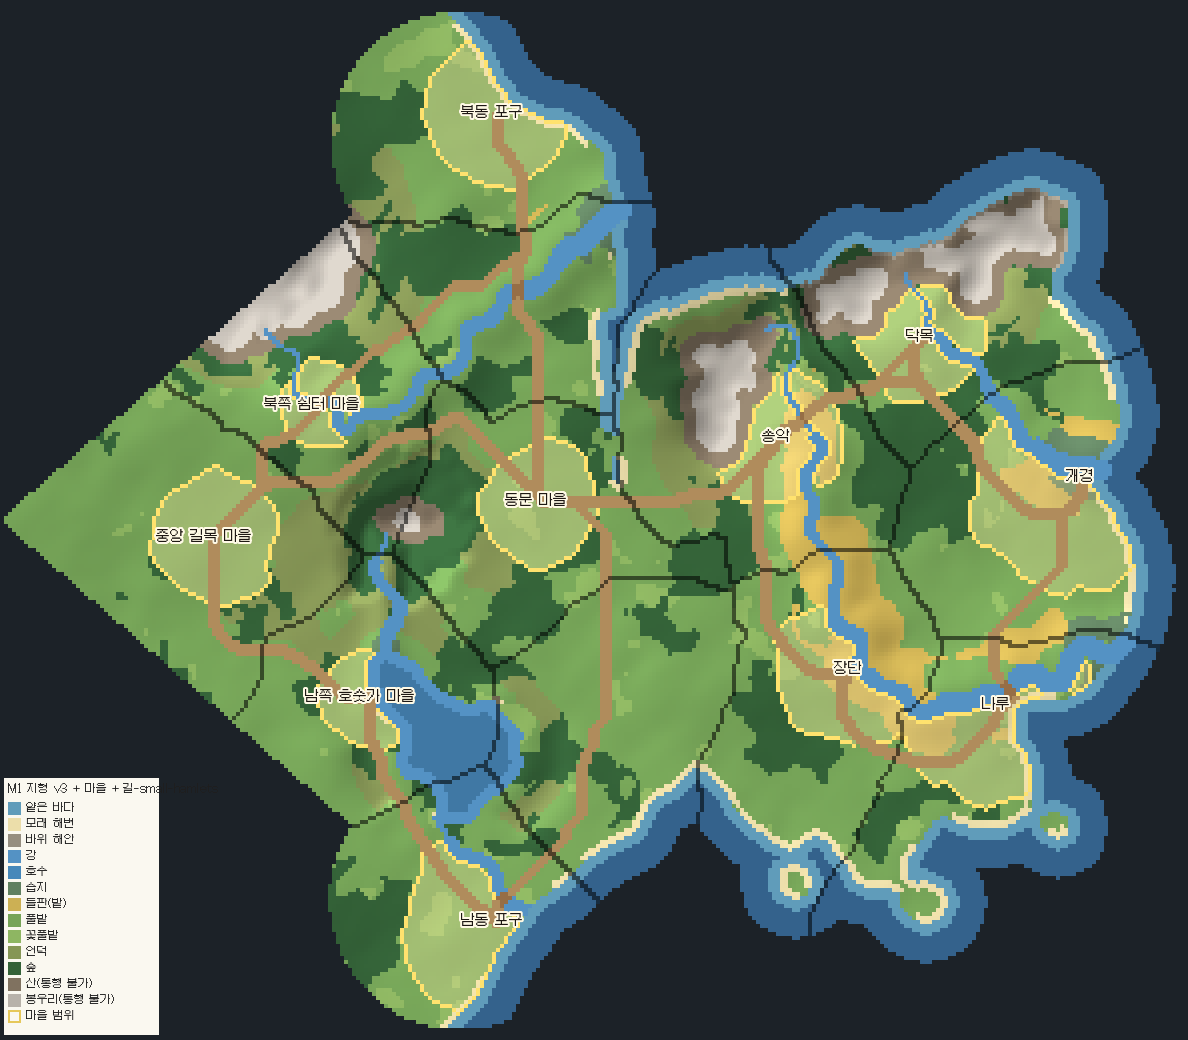
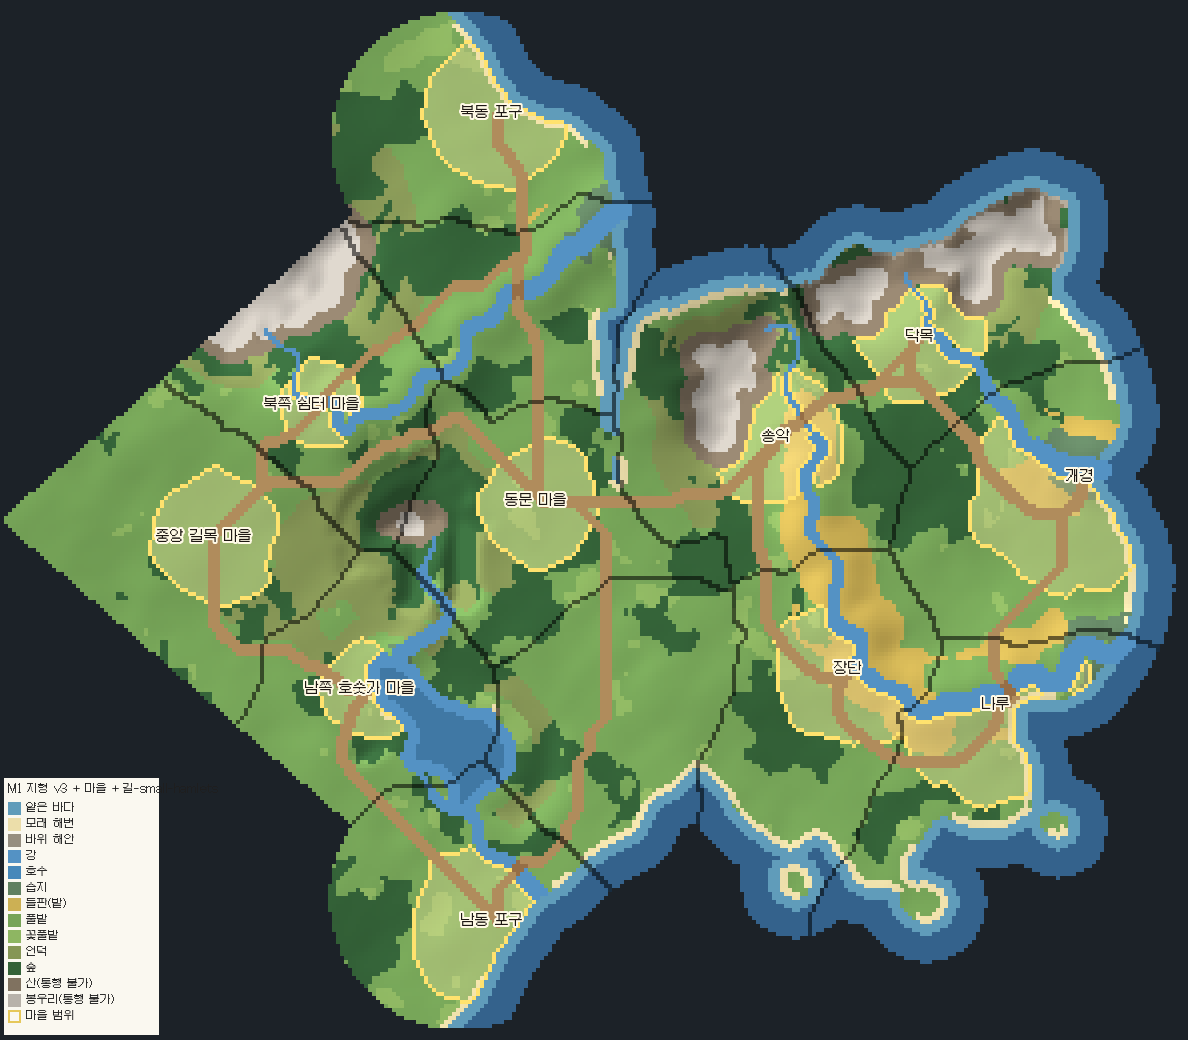
M1: 호수 950→760칸, 수원 방향 고정, 길이 물가에서 더 떨어지게
Claude-Session: https://claude.ai/code/session_01LeGdCGGAkPbpRa1d2kF6Yd

diff --git a/Tools/WorldLayout/terrain_v3.py b/Tools/WorldLayout/terrain_v3.py
@@ -31,7 +31,7 @@ COLORS={DEEP:(52,98,140),SHALLOW:(96,156,186),SAND:(236,222,170),ROCKCOAST:(150,
         FOREST:(52,98,56),MOUNTAIN:(128,114,96),PEAK:(184,178,170),VILLAGE:(210,190,140),VOID:(28,34,40),LAKE:(70,136,186)}
 BLOCKED={DEEP,SHALLOW,RIVER,MOUNTAIN,PEAK,ROCKCOAST,LAKE}
 # 호수(세계 좌표 중심, 대략 면적): 남쪽 쉼터 마을 북쪽(2026-10-27 은샘 제안)
-LAKES=[dict(label='남쪽 큰 호수',area=950,box=(95,22,150,72))]   # 이 범위(x0,y0,x1,y1) 안에서 가장 낮은 내륙 분지를 고른다
+LAKES=[dict(label='남쪽 큰 호수',area=760,box=(95,22,150,72),sourceDir=-99)]   # sourceDir: 호수에서 본 상류(수원 산) 방향, 도(화면 기준, -90=북)   # 이 범위(x0,y0,x1,y1) 안에서 가장 낮은 내륙 분지를 고른다
 # 마을 목표 면적(칸): 수도는 크게, 중앙 마을은 장터 광장·이벤트 마당·시설이 들어갈 만큼(WorldLayout 3절 약 2,060)
 VILLAGE_AREA={'goryeo/개경':1100,'goryeo/장단':700,'goryeo/나루':700,'goryeo/송악':650,'goryeo/닥목':600,
               'east/동문 마을':1400,'east/북동 포구':1400,'east/남동 포구':1400,'east/중앙 길목 마을':1500}
@@ -239,7 +239,7 @@ def build(layout):
         # 모양: 길쭉한 타원에 만·곶을 만드는 굴곡(각도에 따른 낮은 주파수 사인 합)
         # 골짜기 호수: 상류(산) → 호수 → 출구(바다) 축을 따라 길쭉하게
         sy_,sx_=np.nonzero(sea);k0=int(np.argmin((sy_-seed[0])**2+(sx_-seed[1])**2))
-        r0=math.sqrt(lk['area']/math.pi);asp=1.9;ang=math.atan2(sy_[k0]-seed[0],sx_[k0]-seed[1])+rng.uniform(-.25,.25)
+        r0=math.sqrt(lk['area']/math.pi);asp=1.9;ang=math.atan2(sy_[k0]-seed[0],sx_[k0]-seed[1])+rng.uniform(-.25,.25);ang_sea=math.atan2(sy_[k0]-seed[0],sx_[k0]-seed[1])
         ph=rng.uniform(0,2*math.pi,4);amp=(.16,.10,.06,.04)
         dy_=yy_-seed[0];dx_=xx_-seed[1]
         u=dx_*math.cos(ang)+dy_*math.sin(ang);v=-dx_*math.sin(ang)+dy_*math.cos(ang)
@@ -290,7 +290,7 @@ def build(layout):
         lk['hillCells']=int(hillring.sum())
         # 수원지: 출구 반대편 상류 쪽, 호수에서 떨어진 곳에 작은 산 덩어리 하나를 두고
         # 그 산 비탈에서 시작한 강 1줄기가 낮은 골짜기를 따라 굽이쳐 호수 상류 끝으로 든다.
-        R_l=math.sqrt(m.sum()/math.pi);back=ang_out+math.pi
+        R_l=math.sqrt(m.sum()/math.pi);back=math.radians(lk['sourceDir'])   # 상류 방향은 설계값으로 고정(호수 크기·모양이 바뀌어도 산 위치 유지)
         best_=None
         for dist_ in np.arange(R_l+38,R_l+20,-2):
             for da in np.radians([0,15,-15,30,-30,45,-45]):
@@ -550,7 +550,7 @@ def roads(layout,w):
         m=t==k;cost[m]=v;blocked[m]=False
     cost=cost*(1+1.1*wig**2+.25*fine)+6*slope
     d_wat=ndimage.distance_transform_edt(~np.isin(t,[RIVER,LAKE]))
-    cost+=np.where((d_wat>0)&(d_wat<=4),3.0*(5-d_wat)/4,0)   # 물가 4칸 안은 조금 비싸다: 강·호숫가를 바짝 따라가지 않음
+    cost+=np.where((d_wat>0)&(d_wat<=6),3.5*(7-d_wat)/6,0)   # 물가 4칸 안은 조금 비싸다: 강·호숫가를 바짝 따라가지 않음
     centers={v['key']:(v['center'][1]-Y0,v['center'][0]-X0) for v in w['villages']}
     road=np.zeros((H,W),bool);records=[];paths=[]
     order=sorted(layout.data['roads'],key=lambda r:math.dist(layout.towns[r['fromKey']]['position'],layout.towns[r['toKey']]['position']))
